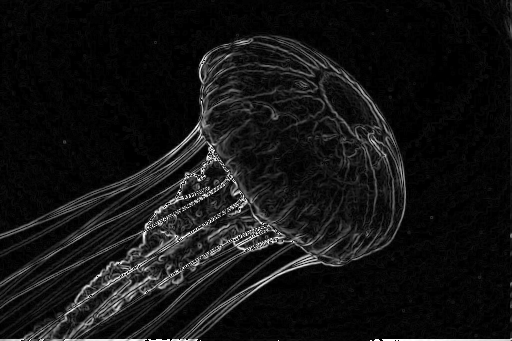
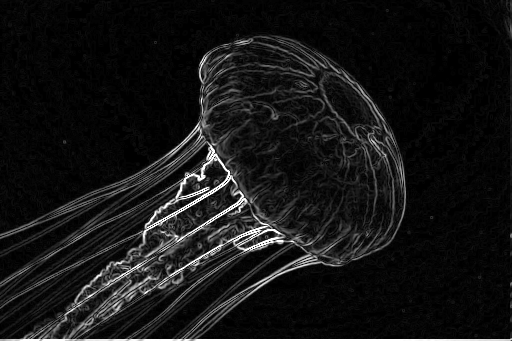
Fix noise by adding threshold
Optimize code by joining multiple for loops into one

Add threshold, so the value doesn't exceed 255 (u8 max)

Update pictures in static/

diff --git a/src/main.rs b/src/main.rs
@@ -40,27 +40,28 @@ fn main() -> io::Result<()> {
     // sobel
     let width = out_info.width as isize;
     let height = out_info.height as isize;
-    let mut sobel_buff1: Vec<f32> = vec![0.0; grayscale_float_buff.len()];
-    let mut sobel_buff2: Vec<f32> = vec![0.0; grayscale_float_buff.len()];
+    let mut sobel_buff: Vec<f32> = vec![0.0; grayscale_float_buff.len()];
 
-    let sobel_mat1: [[f32; 3]; 3] = [
+    let sobel_mat_h: [[f32; 3]; 3] = [
         [  1.0,  2.0,  1.0 ],
         [  0.0,  0.0,  0.0 ],
         [ -1.0, -2.0, -1.0 ]
     ];
 
-    let sobel_mat2: [[f32; 3]; 3] = [
+    let sobel_mat_v: [[f32; 3]; 3] = [
         [ -1.0,  0.0,  1.0 ],
         [ -2.0,  0.0,  2.0 ],
         [ -1.0,  0.0,  1.0 ]
     ];
 
+    // for each pixel
     for row in 0isize..height {
         for col in 0isize..width {
             let i = (row * width + col) as usize;
-            sobel_buff1[i] = 0.0;
-            sobel_buff2[i] = 0.0;
+            let mut sobel_part_h: f32 = 0.0;
+            let mut sobel_part_v: f32 = 0.0;
 
+            // convolution
             for x in 0..3 {
                 for y in 0..3 {
                     let j = (row + y) * width + (col + x);
@@ -69,16 +70,23 @@ fn main() -> io::Result<()> {
                     let j = j as usize;
                     let x = x as usize;
                     let y = y as usize;
-                    sobel_buff1[i] += grayscale_float_buff[j] * sobel_mat1[y][x];
-                    sobel_buff2[i] += grayscale_float_buff[j] * sobel_mat2[y][x];
+                    sobel_part_h += grayscale_float_buff[j] * sobel_mat_h[y][x];
+                    sobel_part_v += grayscale_float_buff[j] * sobel_mat_v[y][x];
                 }
             }
+
+            // combine vertical and horizontal parts
+            sobel_buff[i] = (sobel_part_h.powi(2) + sobel_part_v.powi(2)).sqrt();
         }
     }
 
-    let mut output_buff: Vec<u8> = vec![0; sobel_buff2.len()];
+    let mut output_buff: Vec<u8> = vec![0; sobel_buff.len()];
     for i in 0..output_buff.len() {
-        output_buff[i] = ((sobel_buff1[i] * 255.0).powi(2) + (sobel_buff2[i] * 255.0).powi(2)).sqrt() as u8;
+        output_buff[i] = if sobel_buff[i] * 256.0 > 255.0 {  // thresholding
+            255
+        } else {
+            (sobel_buff[i] * 256.0) as u8
+        };
     }
 
     // encode output file header
